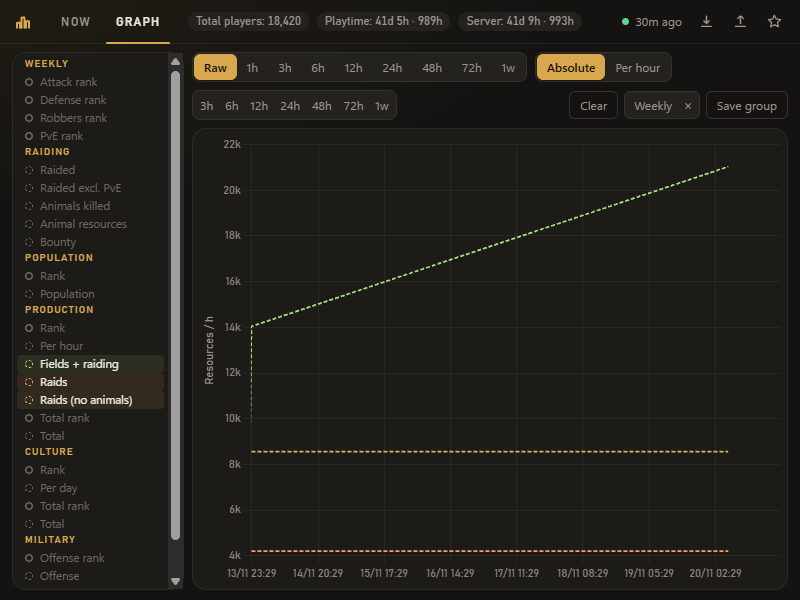
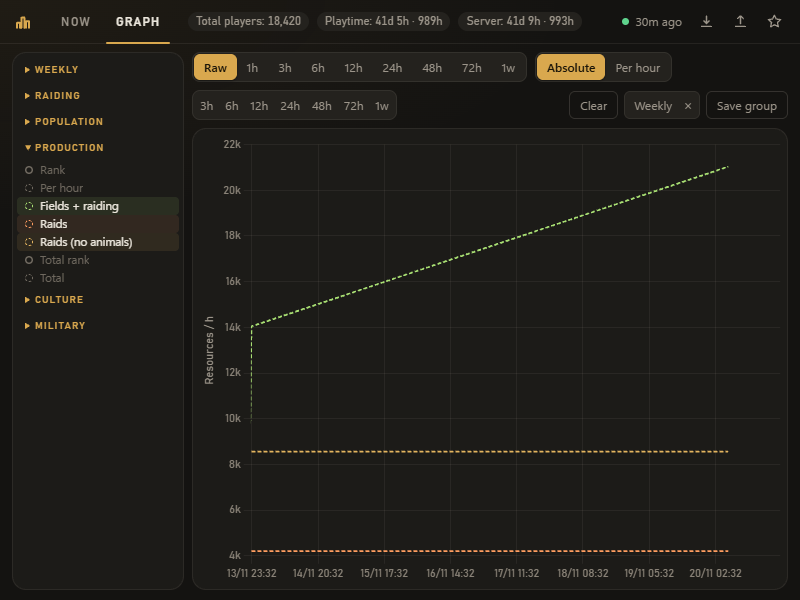
Fit Rank Tracker graph metrics without scrolling

Changed region(s): [[0.0312, 0.09, 0.25, 0.99]]

diff --git a/projects/travian-extensions/extensions/TravianRankTracker/popup.css b/projects/travian-extensions/extensions/TravianRankTracker/popup.css
@@ -565,18 +565,14 @@ td.delta { text-align: right; white-space: nowrap; font-family: var(--font-num);
 .metric-picker {
 	display: flex;
 	flex-direction: column;
-	justify-content: space-between;
 	min-height: 0;
-	overflow-x: hidden;
-	overflow-y: auto;
 	padding: 4px;
 	border: 1px solid var(--line);
 	border-radius: var(--radius-lg);
 	background: var(--surface);
 }
 
-.picker-group { display: flex; flex-direction: column; min-width: 0; }
-.picker-title { padding: 2px 8px 3px; color: var(--accent); font: 600 9.5px/11px var(--font-num); letter-spacing: 0.14em; text-transform: uppercase; }
+.picker-title { padding: 0 8px; color: var(--accent); font: 600 9.5px/26px var(--font-num); letter-spacing: 0.14em; text-transform: uppercase; cursor: pointer; }
 .picker-chips { display: flex; flex-direction: column; }
 
 .chip-metric {
@@ -824,3 +820,15 @@ td.delta { text-align: right; white-space: nowrap; font-family: var(--font-num);
 .view-hist .hist-body { display: contents; }
 .view-hist .metric-picker { grid-column: 1; grid-row: 1 / span 2; }
 .view-hist .chart-wrap { grid-column: 2; grid-row: 2; }
+
+/* Popup zoom reduces the available layout size while keeping the window fixed. */
+.views { container-type: size; }
+@container (max-height: 345px) {
+	.metric-picker .picker-title { line-height: 17px; }
+	.metric-picker .chip-metric { height: 17px; }
+}
+@container (max-width: 560px) {
+	.view-hist:not([hidden]) { grid-template-columns: 128px minmax(0, 1fr); }
+	.hist-toolbar .seg { flex-wrap: wrap; }
+	.hist-toolbar .seg-btn { padding-inline: 4px; }
+}

diff --git a/projects/travian-extensions/extensions/TravianRankTracker/popup/history-view.js b/projects/travian-extensions/extensions/TravianRankTracker/popup/history-view.js
@@ -144,8 +144,12 @@ function hvSyncPicker(chart) {
 function hvRenderPicker(chart) {
 	const picker = document.getElementById("metric-picker");
 	if (!picker) return;
+	const openGroup = picker.querySelector("details[open]")?.dataset.group ?? (picker.childElementCount ? null : "production");
 	const sections = METRIC_GROUPS.map((group) => {
-		const section = h("div", "picker-group");
+		const section = h("details", "picker-group");
+		section.name = "graph-metrics";
+		section.dataset.group = group.id;
+		section.open = group.id === openGroup;
 		const chips = h("div", "picker-chips");
 		for (const key of group.keys) {
 			const index = DATASETS_CONFIG.findIndex((cfg) => cfg.key === key);
@@ -169,7 +173,7 @@ function hvRenderPicker(chart) {
 			});
 			chips.append(btn);
 		}
-		section.append(h("span", "picker-title", group.title), chips);
+		section.append(h("summary", "picker-title", group.title), chips);
 		return section;
 	});
 	picker.replaceChildren(...sections);

diff --git a/projects/travian-extensions/docs/USAGE.md b/projects/travian-extensions/docs/USAGE.md
@@ -105,7 +105,7 @@ The farm-list screenshot uses a sample table with the extension's selection high
 
 1. Open a logged-in Travian tab and click the extension icon to register the server and collect statistics.
 2. Use **Now** for rankings and changes. Expand **Prod / Hour** for Fields + raiding, Raids, and **Raids (no animals)**. The raid rates use the trailing hour; the no-animals row excludes 160 resources per animal killed. The status in the top bar shows the last update. Background collection runs approximately every 30 minutes while the browser and session are available. Weekly tables refresh when the popup is opened; the Weekly header shows when they were observed. Cached weekly values are not recorded as new history.
-3. In **Graph → Production**, select **Fields + raiding** for combined hourly income. Select **Raids** or **Raids (no animals)** for raid income alone. All three match the hourly figures in **Now**. Use **History** to pick metrics in the sidebar, drag across the chart to compare two points, and scroll on the chart to zoom (Shift + scroll pans), or pick a quick range (3h–1w; click it again to show all). The comparison shows the change and time-weighted average plotted value across the selected range. **1h**–**1w** average the observations in each interval (Raw shows every observation); **Per hour** shows change per hour, as the average gain per hour inside each interval, or for Raw the trailing 3-hour raid and PvE gain. **Save group** stores the visible metrics; **Clear** hides all. Weekly statistics reset; value changes and hourly rates bridge observed resets rather than reporting the old total as a loss. Gains during missing observations cannot be recovered.
+3. Expand a category in **Graph** to reveal its metrics. The picker keeps one category open at a time. In **Graph → Production**, select **Fields + raiding** for combined hourly income. Select **Raids** or **Raids (no animals)** for raid income alone. All three match the hourly figures in **Now**. Use **History** to pick metrics in the sidebar, drag across the chart to compare two points, and scroll on the chart to zoom (Shift + scroll pans), or pick a quick range (3h–1w; click it again to show all). The comparison shows the change and time-weighted average plotted value across the selected range. **1h**–**1w** average the observations in each interval (Raw shows every observation); **Per hour** shows change per hour, as the average gain per hour inside each interval, or for Raw the trailing 3-hour raid and PvE gain. **Save group** stores the visible metrics; **Clear** hides all. Weekly statistics reset; value changes and hourly rates bridge observed resets rather than reporting the old total as a loss. Gains during missing observations cannot be recovered.
 4. Use the export icon (arrow down) to save data. The import icon (arrow up) restores a backup and asks before deleting data the backup does not contain; export existing data before importing. The star icon lists the rank tiers.
 
 For expired sessions, log in and reopen the popup. Missing observations cannot be reconstructed.

diff --git a/projects/travian-extensions/README.md b/projects/travian-extensions/README.md
@@ -13,7 +13,7 @@ Eight standalone browser extensions for Travian: forecasting, statistics history
 | <a id="oasis-finder"></a>[Oasis Finder](extensions/OasisCalc/) | Oasis scoring and farm-list sorting | 70.10 |
 | <a id="travalarm"></a>[TravAlarm](extensions/travAlarm/) | Incoming attack alerts, game timers and custom reminders | 3.61 |
 | <a id="travian-qol"></a>[Travian QoL](extensions/TravianQoL/) | Farm-list selection, reports and interface utilities | 1.4.2 |
-| <a id="rank-tracker"></a>[Rank Tracker](extensions/TravianRankTracker/) | Rankings, statistics history and comparison graphs | 5.1.8 |
+| <a id="rank-tracker"></a>[Rank Tracker](extensions/TravianRankTracker/) | Rankings, statistics history and comparison graphs | 5.1.9 |
 | <a id="next-settlement-calc"></a>[Next Settlement Calc](extensions/NextSettlementCalc/) | Culture-point forecasts and celebration planning | 2.6.21 |
 | <a id="npc-automerchant"></a>[Travian NPC Calculator](extensions/automerchant/) | Maximum troop counts and resource splits for the NPC Merchant | 3.2.23 |
 | <a id="night-mode"></a>[Night Mode](extensions/travian_night_mode/) | Persistent dark theme and button colours | 2.6.1 |

diff --git a/projects/travian-extensions/extensions/TravianRankTracker/CHANGELOG.md b/projects/travian-extensions/extensions/TravianRankTracker/CHANGELOG.md
@@ -1,5 +1,9 @@
 # Rank Tracker changelog
 
+## Rank Tracker 5.1.9 — 2026-11-20
+
+- Graph metric categories expand one at a time so the picker fits without scrolling.
+
 ## Rank Tracker 5.1.8 — 2026-11-20
 
 - History → Production now plots **Fields + raiding**, **Raids**, and **Raids (no animals)** in resources per hour. Each uses the same trailing hour as Now. Only the combined line includes field production.

diff --git a/projects/travian-extensions/extensions/TravianRankTracker/README.md b/projects/travian-extensions/extensions/TravianRankTracker/README.md
@@ -2,7 +2,7 @@
 
 Records player statistics and displays rankings, historical changes and comparison graphs.
 
-**Version 5.1.8 · JavaScript · Manifest V3**
+**Version 5.1.9 · JavaScript · Manifest V3**
 
 [Usage guide](../../docs/USAGE.md#rank-tracker) · [Installation](../../README.md#install-in-brave-chrome-or-edge) · [All extensions](../../README.md)
 

diff --git a/projects/travian-extensions/CHANGELOG.md b/projects/travian-extensions/CHANGELOG.md
@@ -1,5 +1,9 @@
 # Changelog
 
+## Rank Tracker 5.1.9 — 2026-11-20
+
+- Makes Graph metric categories collapsible so all categories fit without scrolling.
+
 ## Rank Tracker 5.1.8 — 2026-11-20
 
 - Adds the hourly income breakdown to the Production graph.
